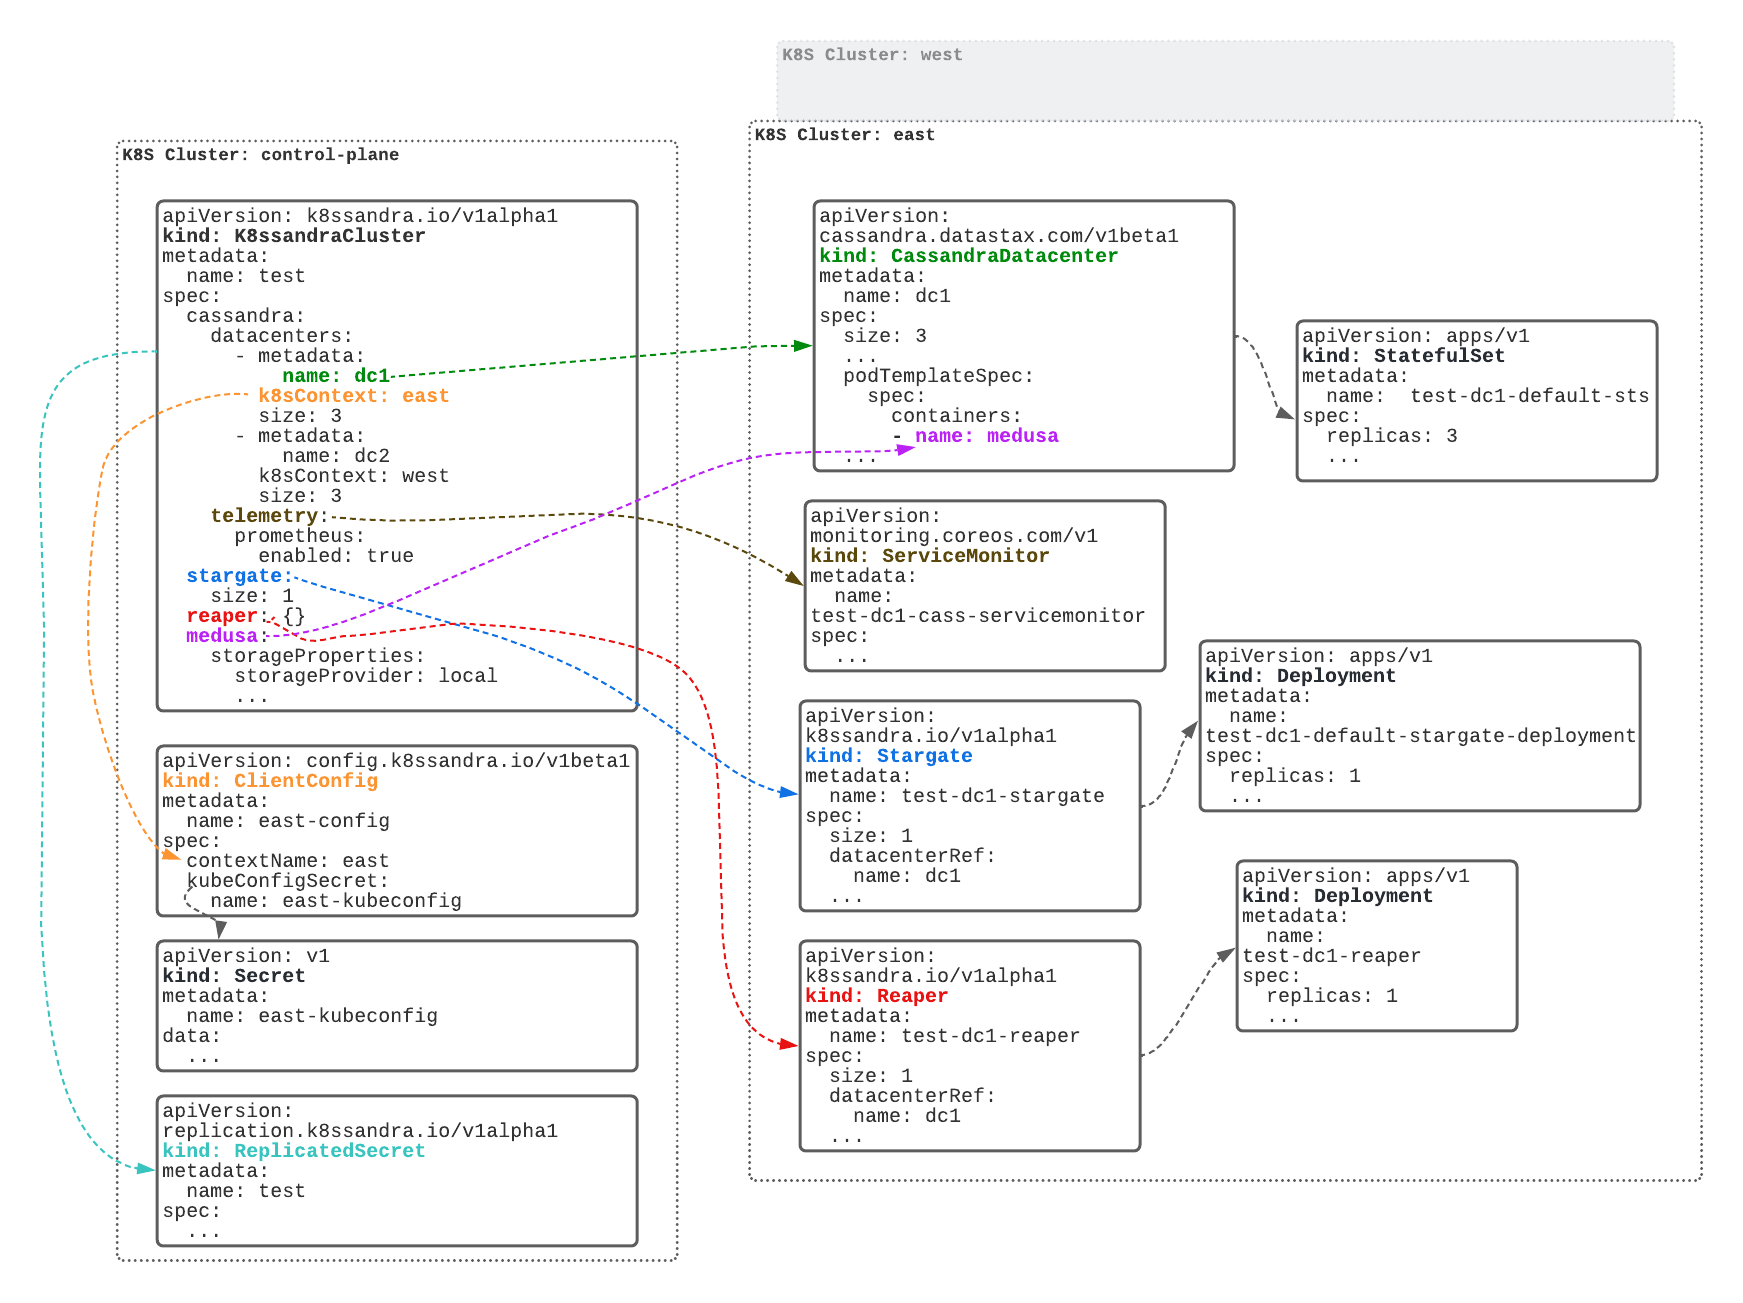
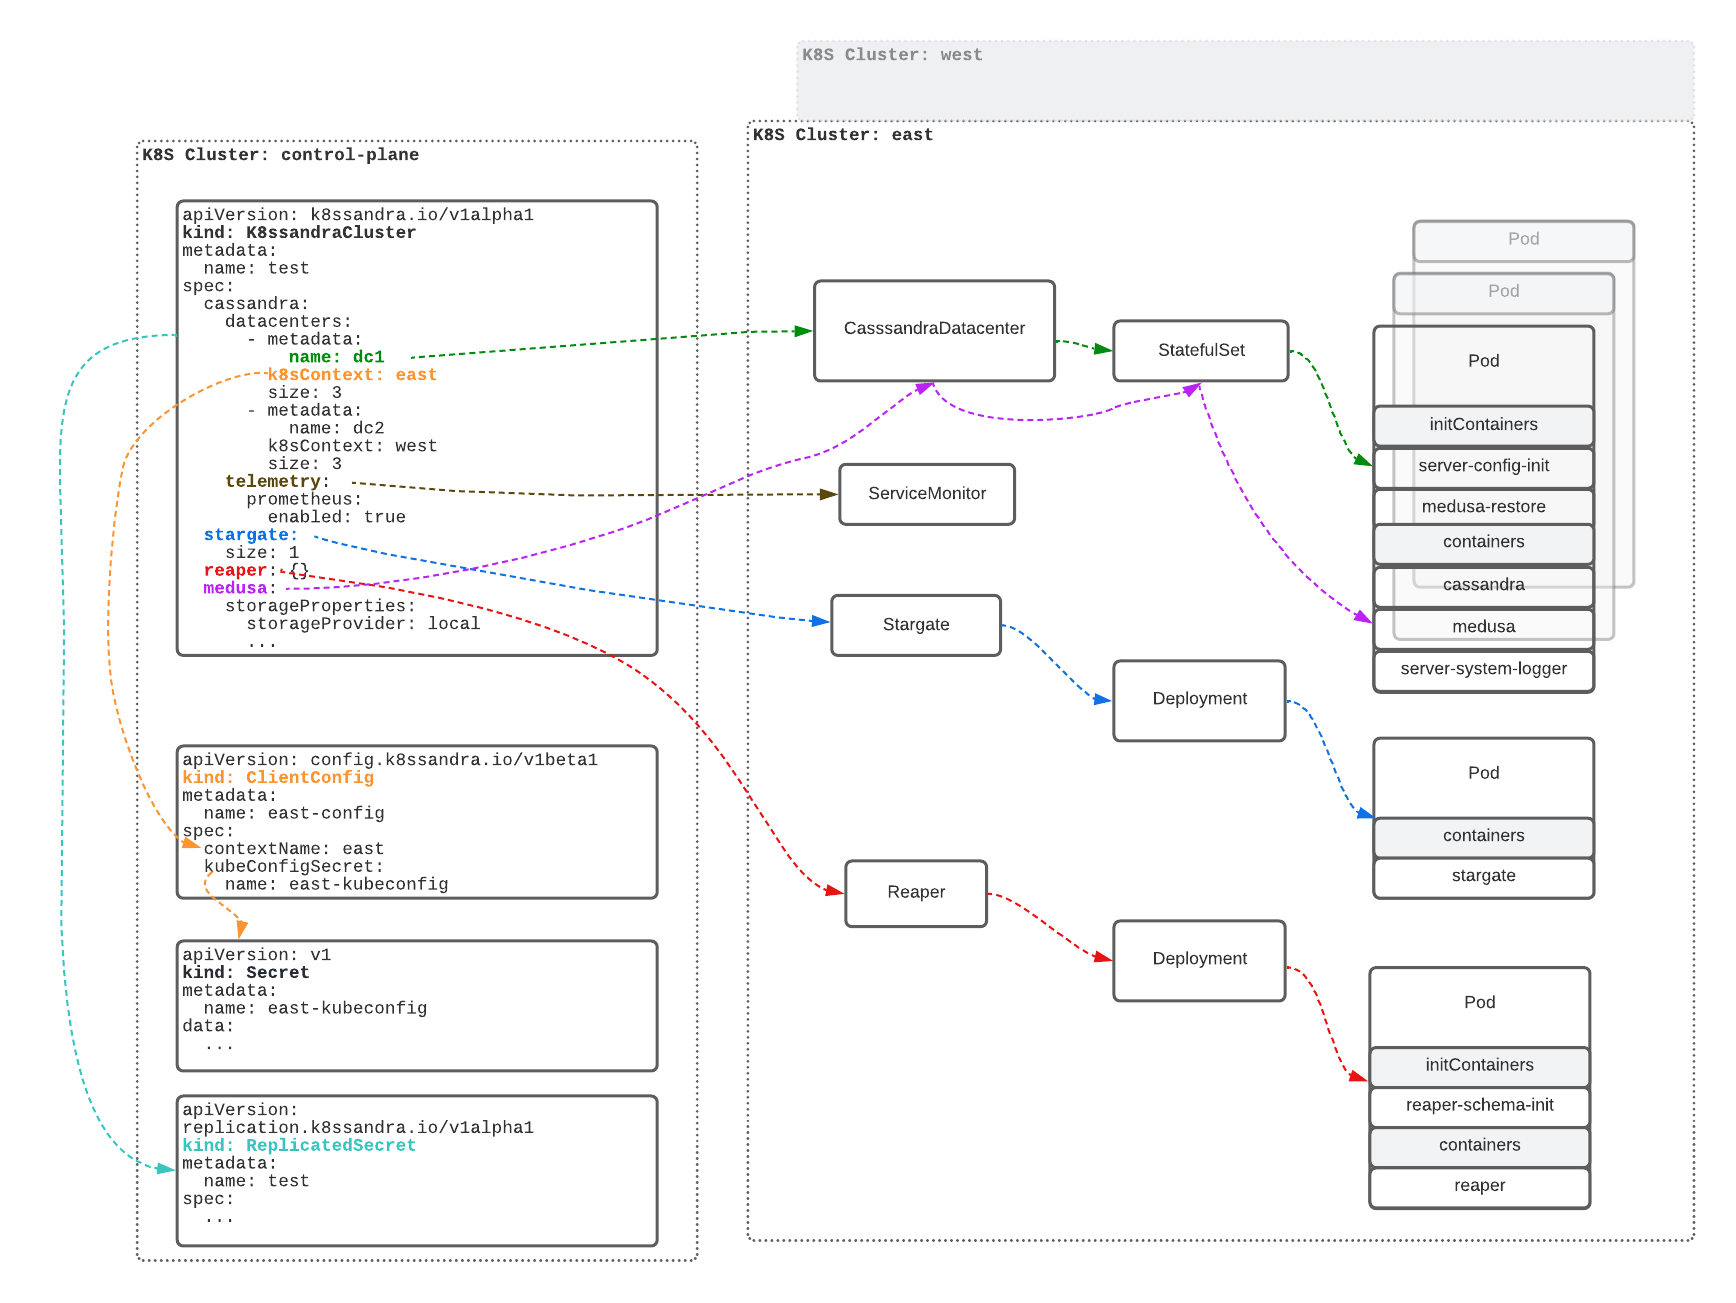
minor updates

diff --git a/docs/arch-overview.md b/docs/arch-overview.md
@@ -1,12 +1,12 @@
 # K8ssandraCluster Components
-K8ssandraCluster is the primary custom resource with which you will with interact when using K8ssandra Operator. This document provides a high level overview of the K8ssandraCluster CR. 
+K8ssandraCluster is the primary custom resource with which you will with interact when using K8ssandra Operator. This document provides a high level overview of the K8ssandraCluster custom resource. 
 
-The following diagram highlights the various, key objects that comprise a K8ssandraCluster. The K8ssandraCluster spec is shown with parts highlighted and pointing to corresponding objects.
+The following diagram highlights the key objects that comprise a K8ssandraCluster. The K8ssandraCluster spec is shown with highlighted parts pointing to corresponding objects.
 
 ![](img/arch-overview.png)
 
 # Kubernetes Clusters
-K8ssandra Operator supports multi-cluster deployments. The various components that make up a K8ssandraCluster can be spread across multiple Kubernetes clusters. One of those clusters must be designated as the control plane cluster. The other clusters are data plane clusters. In the diagram we have three Kubernetes clusters - `control-plane`, `east`, and `west`. The latter two make up the data plane.
+The various components that make up a K8ssandraCluster can be spread across multiple Kubernetes clusters. One of those clusters must be designated as the control plane cluster. The other clusters are data plane clusters. In the diagram we have three Kubernetes clusters - `control-plane`, `east`, and `west`. The latter two make up the data plane.
 
 The K8ssandraCluster object must be created in the control plane cluster.
 
@@ -15,11 +15,11 @@ K8ssandra Operator is deployed in each cluster. The operator consists of several
 # CassandraDatacenter
 Here we discuss the `cassandra.datacenters` property which is an array. K8ssandra Operator creates a CassandraDatacenter for each element. 
 
-Note the `name: dc1` declaration that is highlighted in green. This tells K8ssandra Operator to create a CassandraDatacenter named `dc1`. The green arrow in the diagram points to the CassandraDatacenter object.
-
-Cass Operator manages the CassandraDatacenter. Note the arrow from the CassandraDatacenter to the StatefulSet `test-dc1-default-sts`. Cass Operator creates the StatefulSet. The StatefulSet controller, which is part of Kubernetes itself, creates the actual pods that run Cassandra.
+Notice the `name: dc1` that is highlighted in green. This tells K8ssandra Operator to create a CassandraDatacenter named `dc1`. The green arrow in the diagram points to the CassandraDatacenter object. The `size` property declares that there should be 3 Cassandra nodes.
 
 <!-- TODO: Add link to configuration doc when its available -->
+
+Cass Operator manages the CassandraDatacenter. Note the arrow from the CassandraDatacenter to the StatefulSet `test-dc1-default-sts`. Cass Operator creates the StatefulSet. The StatefulSet controller, which is part of Kubernetes itself, creates the actual pods that run Cassandra.
 
 
 ## k8sContext
@@ -32,7 +32,7 @@ A ClientConfig is another custom resource provided by K8ssandra Operator; howeve
 
 The operator identifies remote clusters using the `contextName` property. The property is optional. If not specified, the operator uses the ClientConfig name to identify the remote cluster.
 
-The arrow going from the `k8sContext` property to the ClientConfig object which has a `contextName` property represents an indirect relationship. While deleting a K8ssandraCluster will result in the deletion of the member CassandraDatacenters, it won't result in deletion of any ClientConfigs.
+The arrow going from the `k8sContext` property to the ClientConfig object which has a `contextName` property represents an indirect relationship. Creating and managing ClientConfigs is separate and independent from managing K8ssandraClusters.
 
 **Note:** See [Remote Cluster Connection Management][remote-k8s-access/README.md] for more information about ClientConfigs. 
 
@@ -44,22 +44,27 @@ Next we look at the `cassandra.telemetry` property. When it is enabled, K8ssandr
 <!-- TODO: Add line to prometheus doc when https://github.com/k8ssandra/k8ssandra-operator/pull/333 is merged -->
 
 # Stargate
-K8ssandra Operator provides a Stargate custom resource. The `stargate` property configures Stargate for each CassandraDatacenter. The diagram illustrates the `test-dc1-stargate` Stargate object that the operator creates in the `east` cluster. More precisely the K8ssandraCluster controller creates the Stargate object.
+K8ssandra Operator provides a Stargate custom resource. The `stargate` property configures Stargate for each CassandraDatacenter. 
 
 **Note:** See [stargate.io](https://stargate.io/) to learn more abour Stargate.
 
-Note the arrow from `test-dc1-stargate` `test-dc1-default-stargate-deployment`. The Stargate controller creates this Deployment. The Deployment controller, which is part of Kubernetes itself, creates the actual pod that runs Stargate.
-
 <!-- TODO: Add link to configuration doc when its available -->
 
+The diagram illustrates the `test-dc1-stargate` Stargate object that the operator creates in the `east` cluster. More precisely the K8ssandraCluster controller creates the Stargate object.
+
+Note the arrow from `test-dc1-stargate` `test-dc1-default-stargate-deployment`. The Stargate controller creates this Deployment. The Deployment controller, which is part of Kubernetes itself, creates the actual pod that runs Stargate.
+
+
 # Reaper
-K8ssandra Operator provides a Reaper custom resource. The `reaper` property configures Reaper for each CassandraDatacenter. The diagram illustrates the `test-dc1-reaper` Reaper object that the operator creates in the `east` cluster. More precisely the K8ssandraCluster controller creates the Reaper object.
+K8ssandra Operator provides a Reaper custom resource. The `reaper` property configures Reaper for each CassandraDatacenter. 
 
 **Note:** See [cassandra-reaper.io](http://cassandra-reaper.io/) to learn more about Reaper.
 
-Note the arrow from the `test-dc1-reaper` Reaper object to the `test-dc1-reaper` Deployment object. The Reaper controller creates this Deployment. The Deployment controller, which is part of Kubernetes itself, create the actual pod that runs Reaper.
-
 <!-- TODO: Add link to configuration doc when its available -->
+
+The diagram illustrates the `test-dc1-reaper` Reaper object that the operator creates in the `east` cluster. More precisely the K8ssandraCluster controller creates the Reaper object.
+
+Note the arrow from the `test-dc1-reaper` Reaper object to the `test-dc1-reaper` Deployment object. The Reaper controller creates this Deployment. The Deployment controller, which is part of Kubernetes itself, create the actual pod that runs Reaper.
 
 # Medusa
 The `medusa` property configures Medusa for performing backups and restores of Cassandra. K8ssandra Operator modifies the CassandraDatacenter to include additional containers in Cassandra pods for performing backup and restore operations.
